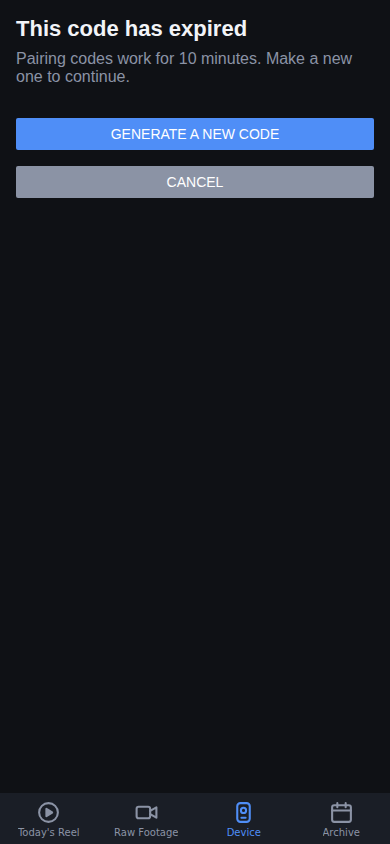
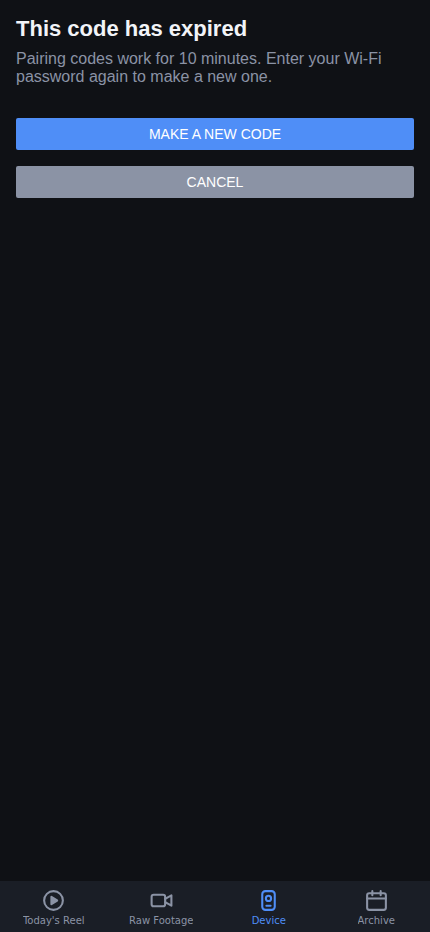
fix(app): forget the pairing code and wi-fi password once the qr is done
The pairing screen kept the QR payload and the Wi-Fi password in state
after the flow reached paired, expired or error, and after it was closed.
Both are now cleared the moment the QR stops being shown. The database has
no call that retires an unclaimed code without unpairing the device, so
closing early only clears state; the code expires on its own and the next
one replaces it. Expired now returns to the form with the SSID kept, since
the password it would need is gone.

The QR's expiry compared the server's expires_at with the phone's clock,
so a phone running ahead retired a live code early and one running behind
kept showing a dead one. create_pairing_code also returns expires_in, and
the app times the QR from the moment the code arrived. This also fixes a
jest test that failed once the wall clock passed its fixed expires_at.

diff --git a/app/__tests__/containers/ReonboardContainer.test.tsx b/app/__tests__/containers/ReonboardContainer.test.tsx
@@ -3,6 +3,7 @@ import React from 'react';
 
 import { PAIRING_POLL_MS, ReonboardContainer } from '../../src/containers/ReonboardContainer';
 import type { VisionClient } from '../../src/lib/supabase';
+import { ReonboardScreen } from '../../src/screens/ReonboardScreen';
 
 jest.mock(
   'react-native-qrcode-svg',
@@ -14,10 +15,12 @@ jest.mock(
 );
 
 type Result<T> = { data: T; error: { message: string } | null };
-type CodeRow = { code: string; expires_at: string };
+type CodeRow = { code: string; expires_at: string; expires_in: number };
 
 const NOW = new Date('2026-11-19T12:00:00Z').getTime();
-const IN_TEN_MINUTES = new Date(NOW + 10 * 60 * 1000).toISOString();
+const TEN_MINUTES_MS = 10 * 60 * 1000;
+const IN_TEN_MINUTES = new Date(NOW + TEN_MINUTES_MS).toISOString();
+const TEN_MINUTES_SEC = 600;
 
 interface FakeOptions {
   // Each read of devices takes the next row set; the last one repeats.
@@ -53,7 +56,9 @@ function fakeClient({ deviceReads = [[{ device_user_id: 'old-pendant' }]], rpc }
       return rpc
         ? rpc()
         : Promise.resolve({
-            data: [{ code: `code-${codes}`, expires_at: IN_TEN_MINUTES }],
+            data: [
+              { code: `code-${codes}`, expires_at: IN_TEN_MINUTES, expires_in: TEN_MINUTES_SEC },
+            ],
             error: null,
           });
     },
@@ -66,6 +71,26 @@ async function generate() {
   await fireEvent.changeText(screen.getByTestId('password-input'), 'hunter2pass');
   await fireEvent.press(screen.getByTestId('generate-qr-button'));
 }
+
+// The real screen, wrapped so a test can read what the container still holds.
+jest.mock('../../src/screens/ReonboardScreen', () => {
+  const actual = jest.requireActual('../../src/screens/ReonboardScreen');
+  const ReactActual = jest.requireActual('react');
+  return {
+    ...actual,
+    ReonboardScreen: jest.fn((props: object) =>
+      ReactActual.createElement(actual.ReonboardScreen, props),
+    ),
+  };
+});
+
+function heldSecrets() {
+  const calls = jest.mocked(ReonboardScreen).mock.calls;
+  const props = calls[calls.length - 1][0];
+  return { password: props.password, qrValue: props.qrValue };
+}
+
+const CLEARED = { password: '', qrValue: '' };
 
 function qrPayload() {
   return JSON.parse(screen.getByTestId('qr-code').props.children);
@@ -192,21 +217,58 @@ describe('ReonboardContainer', () => {
     expect(fake.reads()).toBe(readsBeforeUnmount);
   });
 
-  it('expires the code and makes a new one on request', async () => {
+  it('expires the code, forgets it and the password, and starts over on request', async () => {
     const fake = fakeClient({});
     await render(<ReonboardContainer client={fake.client} deviceId="dev-1" onDone={jest.fn()} />);
     await generate();
     await waitFor(() => expect(screen.getByTestId('qr-code')).toBeTruthy());
 
-    await advance(10 * 60 * 1000);
+    await advance(TEN_MINUTES_MS);
     await waitFor(() => expect(screen.getByTestId('expired-message')).toBeTruthy());
     expect(screen.queryByTestId('qr-code')).toBeNull();
+    expect(heldSecrets()).toEqual(CLEARED);
 
     await fireEvent.press(screen.getByTestId('new-code-button'));
+    expect(screen.getByTestId('ssid-input').props.value).toBe('HomeNet');
+    expect(screen.getByTestId('password-input').props.value).toBe('');
+    await generate();
     await waitFor(() => expect(screen.getByTestId('qr-code')).toBeTruthy());
     expect(qrPayload().pairing_code).toBe('code-2');
     expect(fake.rpcCalls).toHaveLength(2);
   });
+
+  it.each([
+    ['ahead of', NOW + 60 * 1000],
+    ['behind', NOW + 20 * 60 * 1000],
+  ])(
+    'times the code by its server lifetime when the phone clock is %s the server',
+    async (_label, expiresAtOnPhoneClock) => {
+      // expires_at is the server's time; read against a skewed phone clock it
+      // would expire the QR early or keep showing a dead code.
+      const fake = fakeClient({
+        rpc: () =>
+          Promise.resolve({
+            data: [
+              {
+                code: 'code-1',
+                expires_at: new Date(expiresAtOnPhoneClock).toISOString(),
+                expires_in: TEN_MINUTES_SEC,
+              },
+            ],
+            error: null,
+          }),
+      });
+      await render(<ReonboardContainer client={fake.client} deviceId="dev-1" onDone={jest.fn()} />);
+      await generate();
+      await waitFor(() => expect(screen.getByTestId('qr-code')).toBeTruthy());
+
+      await advance(TEN_MINUTES_MS - 1000);
+      expect(screen.getByTestId('qr-code')).toBeTruthy();
+
+      await advance(1000);
+      await waitFor(() => expect(screen.getByTestId('expired-message')).toBeTruthy());
+    },
+  );
 
   it('ignores a second press while the code is still being made', async () => {
     jest.useRealTimers();
@@ -227,13 +289,16 @@ describe('ReonboardContainer', () => {
     expect(fake.rpcCalls).toHaveLength(1);
 
     await act(async () => {
-      respond({ data: [{ code: 'code-1', expires_at: IN_TEN_MINUTES }], error: null });
+      respond({
+        data: [{ code: 'code-1', expires_at: IN_TEN_MINUTES, expires_in: TEN_MINUTES_SEC }],
+        error: null,
+      });
       await firstPress;
     });
     await waitFor(() => expect(screen.getByTestId('qr-code')).toBeTruthy());
   });
 
-  it('calls onDone from Done', async () => {
+  it('forgets the code and the password when closed while the QR is up', async () => {
     const onDone = jest.fn();
     const fake = fakeClient({});
     await render(<ReonboardContainer client={fake.client} deviceId="dev-1" onDone={onDone} />);
@@ -241,19 +306,36 @@ describe('ReonboardContainer', () => {
     await waitFor(() => expect(screen.getByTestId('done-button')).toBeTruthy());
 
     await fireEvent.press(screen.getByTestId('done-button'));
+
     expect(onDone).toHaveBeenCalled();
+    expect(heldSecrets()).toEqual(CLEARED);
   });
 
-  it('keeps the typed SSID and password after Try again', async () => {
+  it('forgets the code and the password once paired', async () => {
+    const fake = fakeClient({
+      deviceReads: [[{ device_user_id: 'old-pendant' }], [{ device_user_id: 'new-pendant' }]],
+    });
+    await render(<ReonboardContainer client={fake.client} deviceId="dev-1" onDone={jest.fn()} />);
+    await generate();
+    await waitFor(() => expect(screen.getByTestId('qr-code')).toBeTruthy());
+
+    await advance(PAIRING_POLL_MS);
+    await waitFor(() => expect(screen.getByTestId('paired-message')).toBeTruthy());
+
+    expect(heldSecrets()).toEqual(CLEARED);
+  });
+
+  it('keeps the SSID but forgets the password after an error', async () => {
     const fake = fakeClient({
       rpc: () => Promise.resolve({ data: null, error: { message: 'boom' } }),
     });
     await render(<ReonboardContainer client={fake.client} deviceId="dev-1" onDone={jest.fn()} />);
     await generate();
     await waitFor(() => expect(screen.getByTestId('try-again-button')).toBeTruthy());
+    expect(heldSecrets()).toEqual(CLEARED);
 
     await fireEvent.press(screen.getByTestId('try-again-button'));
     expect(screen.getByTestId('ssid-input').props.value).toBe('HomeNet');
-    expect(screen.getByTestId('password-input').props.value).toBe('hunter2pass');
+    expect(screen.getByTestId('password-input').props.value).toBe('');
   });
 });

diff --git a/app/src/containers/ReonboardContainer.tsx b/app/src/containers/ReonboardContainer.tsx
@@ -1,4 +1,4 @@
-import React, { useEffect, useRef, useState } from 'react';
+import React, { useCallback, useEffect, useRef, useState } from 'react';
 
 import type { VisionClient } from '../lib/supabase';
 import { buildPairingQrPayload } from '../logic/pairingQr';
@@ -17,6 +17,11 @@ interface ReonboardContainerProps {
 }
 
 interface PendingPairing {
+  // When the QR stops being useful, on this phone's clock: the moment the
+  // code arrived plus the lifetime the server gave it. Comparing the
+  // server's expires_at with the phone's clock instead is off by however
+  // far that clock is, which would retire a live code early or keep showing
+  // a dead one.
   expiresAt: number;
   // The pairing link before the code was made: the device's pendant login,
   // or (with no device yet) whether any device exists. A change means the
@@ -57,9 +62,32 @@ export function ReonboardContainer({ client, deviceId, onDone }: ReonboardContai
   // re-render that disables the button, and would see a stale false.
   const inFlight = useRef(false);
 
+  // The QR holds the Wi-Fi password and a live pairing code, so neither is
+  // kept a moment longer than the QR is on screen. Clearing state is all
+  // there is to do on close: the database has no call that retires a code
+  // without unpairing, a new code replaces it, and it expires on its own.
+  const forgetSecrets = useCallback(() => {
+    setPassword('');
+    setQrValue('');
+    setPending(null);
+  }, []);
+
+  const finish = useCallback(
+    (next: ReonboardStep) => {
+      forgetSecrets();
+      setStep(next);
+    },
+    [forgetSecrets],
+  );
+
   const fail = (message: string) => {
     setErrorMessage(message);
-    setStep('error');
+    finish('error');
+  };
+
+  const close = () => {
+    forgetSecrets();
+    onDone();
   };
 
   const onSubmit = async (submittedSsid: string, submittedPassword: string) => {
@@ -86,7 +114,7 @@ export function ReonboardContainer({ client, deviceId, onDone }: ReonboardContai
         return;
       }
       setQrValue(buildPairingQrPayload(submittedSsid, submittedPassword, data[0].code));
-      setPending({ expiresAt: new Date(data[0].expires_at).getTime(), baseline: before.link });
+      setPending({ expiresAt: Date.now() + data[0].expires_in * 1000, baseline: before.link });
       setStep('ready');
     } catch (caught) {
       fail(messageOf(caught));
@@ -110,7 +138,7 @@ export function ReonboardContainer({ client, deviceId, onDone }: ReonboardContai
       readLink(client, deviceId)
         .then((read) => {
           // A failed read is retried on the next tick; the code is still live.
-          if (active && read.ok && read.link !== pending.baseline) setStep('paired');
+          if (active && read.ok && read.link !== pending.baseline) finish('paired');
         })
         .catch(() => {})
         .finally(() => {
@@ -119,7 +147,7 @@ export function ReonboardContainer({ client, deviceId, onDone }: ReonboardContai
     }, PAIRING_POLL_MS);
     const expiry = setTimeout(
       () => {
-        if (active) setStep('expired');
+        if (active) finish('expired');
       },
       Math.max(0, pending.expiresAt - Date.now()),
     );
@@ -128,7 +156,7 @@ export function ReonboardContainer({ client, deviceId, onDone }: ReonboardContai
       clearInterval(poll);
       clearTimeout(expiry);
     };
-  }, [step, pending, client, deviceId]);
+  }, [step, pending, client, deviceId, finish]);
 
   return (
     <ReonboardScreen
@@ -141,9 +169,9 @@ export function ReonboardContainer({ client, deviceId, onDone }: ReonboardContai
       onSsidChange={setSsid}
       onPasswordChange={setPassword}
       onSubmit={onSubmit}
-      onDone={onDone}
+      onDone={close}
       onRetry={() => setStep('form')}
-      onNewCode={() => onSubmit(ssid, password)}
+      onNewCode={() => setStep('form')}
     />
   );
 }

diff --git a/app/src/screens/ReonboardScreen.tsx b/app/src/screens/ReonboardScreen.tsx
@@ -95,15 +95,14 @@ export function ReonboardScreen({
           This code has expired
         </Text>
         <Text style={styles.body}>
-          Pairing codes work for 10 minutes. Make a new one to continue.
+          Pairing codes work for 10 minutes. Enter your Wi-Fi password again to make a new one.
         </Text>
         <View style={styles.buttonWrap}>
           <Button
             testID="new-code-button"
-            title={isSubmitting ? 'Generating...' : 'Generate a new code'}
+            title="Make a new code"
             color={colors.accent}
-            accessibilityLabel="Generate a new pairing code"
-            disabled={isSubmitting}
+            accessibilityLabel="Make a new pairing code"
             onPress={onNewCode}
           />
         </View>
@@ -113,7 +112,6 @@ export function ReonboardScreen({
             title="Cancel"
             color={colors.textMuted}
             accessibilityLabel="Cancel pairing"
-            disabled={isSubmitting}
             onPress={onDone}
           />
         </View>

diff --git a/app/__tests__/App.test.tsx b/app/__tests__/App.test.tsx
@@ -74,7 +74,13 @@ function fakeClient(session: Session | null, devices: Rows | (() => Rows)) {
     from: (table: string) => makeChain(table === 'devices' ? readDevices : () => []),
     rpc: jest.fn(() =>
       Promise.resolve({
-        data: [{ code: 'code-1', expires_at: new Date(Date.now() + 600000).toISOString() }],
+        data: [
+          {
+            code: 'code-1',
+            expires_at: new Date(Date.now() + 600000).toISOString(),
+            expires_in: 600,
+          },
+        ],
         error: null,
       }),
     ),

diff --git a/app/__tests__/screens/ReonboardScreen.test.tsx b/app/__tests__/screens/ReonboardScreen.test.tsx
@@ -248,6 +248,8 @@ describe('ReonboardScreen', () => {
       />,
     );
     expect(screen.getByTestId('expired-message')).toHaveTextContent('This code has expired');
+    // The password was forgotten with the code, so the new one starts at the form.
+    expect(screen.getByText(/Enter your Wi-Fi password again/)).toBeTruthy();
     expect(screen.queryByTestId('qr-code')).toBeNull();
     await fireEvent.press(screen.getByTestId('new-code-button'));
     expect(onNewCode).toHaveBeenCalled();
